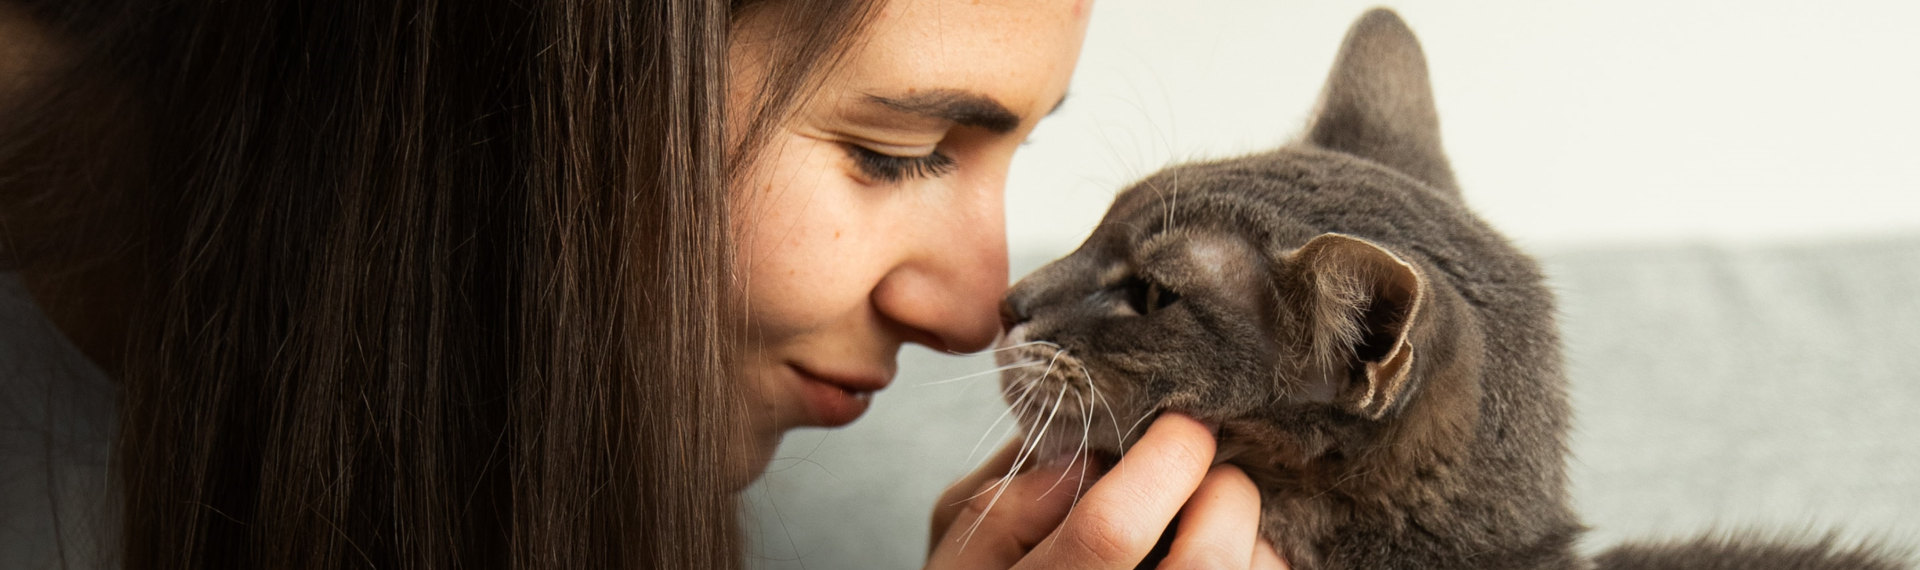
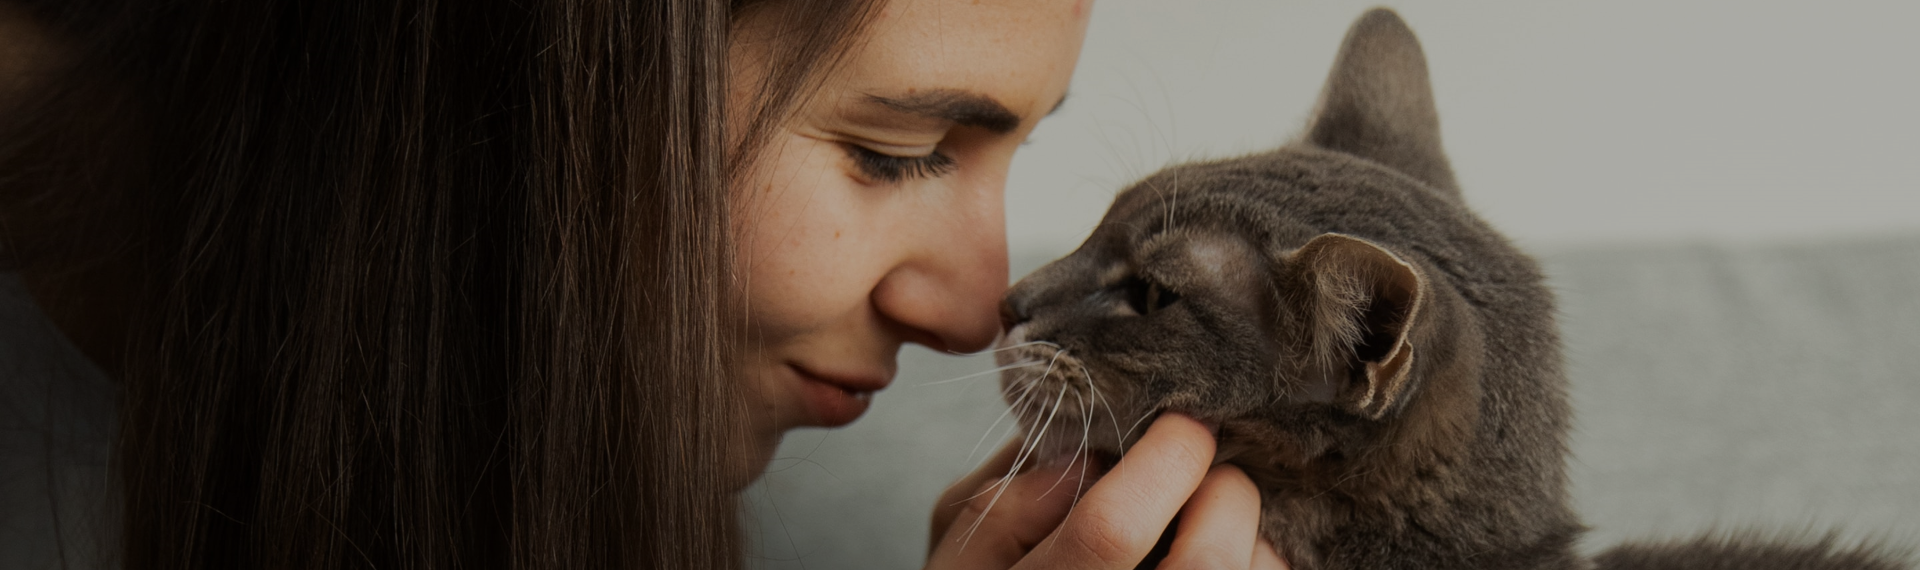
Darkened img backgrounds fo more headers readability

diff --git a/root/css/about.css b/root/css/about.css
@@ -26,5 +26,5 @@ li:last-child {
     font-weight: bold;
 }
 #arf {
-    background-image: url('../images/bg-banner2.jpeg');
+    background-image: url('../images/bg-banner2.png');
 }
